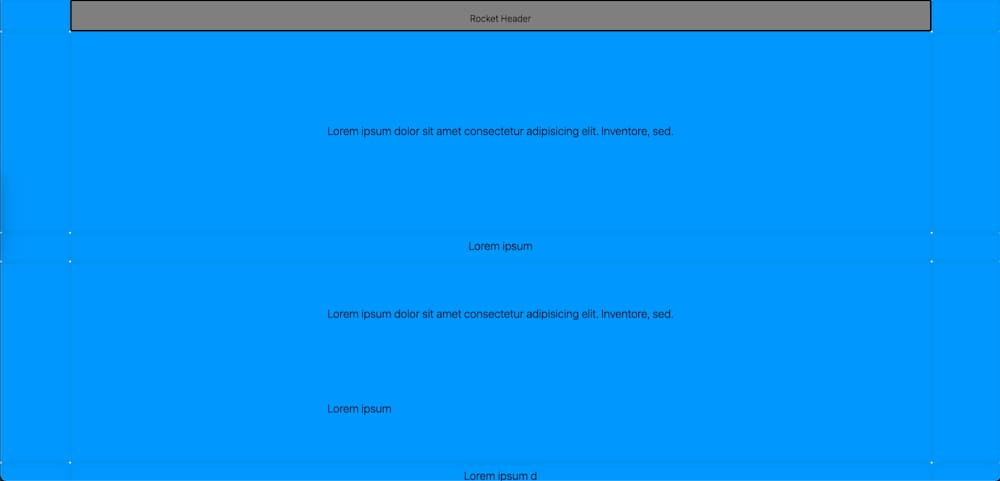
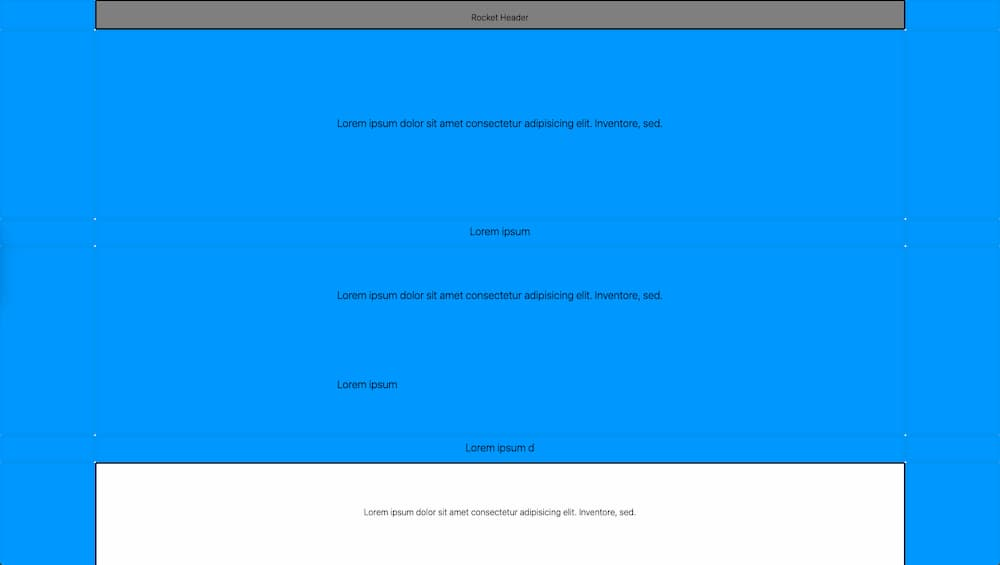
WIP

diff --git a/docs/rocket-themes/index.md b/docs/rocket-themes/index.md
@@ -1,12 +1,20 @@
 # Rocket Themes || 10
 
-_**This page is almost entirely TLDR to explain why I created these rocket themes**_ and what the themes are, and are not, about. [Thumbnails](/rocket-themes/all/thumbnails/) or even [Installation](/rocket-themes/all/installation/) might be more interesting for a first 10 second look.
+Go to [Thumbnails](/rocket-themes/all/thumbnails/) or even [Installation](/rocket-themes/all/installation/) if you want the quick visual or dev view.
+
+Else, _**this page is almost entirely TLDR to explain why I created these rocket themes**_ and what the themes are, and are not, about. 
 
 This page also covers some of the pitfalls.
 
 ## Executive Summary
 
-It might be possible that the biggest single factor to Wordpress's success - [currently 38% of the internet](https://kinsta.com/wordpress-market-share/) - is themes? [It's hard to know.](https://en.wikipedia.org/wiki/WordPress#History) 
+Rocket Themes is my answer to the problem given to me by my former boss and future clients: _**"We can't use rocket because the site we need doesn't look like that. Sorry."**_ By the time I try to explain that it can be customized, I've already lost them.
+
+So rocket themes let's me swap look and feel in 30 seconds. Now, I've got their attention. Seems silly, but _whatever it takes_.
+
+### But there's more
+
+It also might be possible that the biggest single factor to Wordpress's success - [currently 38% of the internet](https://kinsta.com/wordpress-market-share/) - is themes? [It's hard to know.](https://en.wikipedia.org/wiki/WordPress#History) 
 
 I created [these starter themes](/rocket-themes/all/thumbnails/) as one way to allow Rocket to grow into some of those same markets that would otherwise be unavailable to it.
 
@@ -14,17 +22,17 @@ I created [these starter themes](/rocket-themes/all/thumbnails/) as one way to a
 
 These starter themes give you very modest blocking for theming out your own [rocket](https://rocket.modern-web.dev/) site without getting tangled up in the rocket codebase. Proving out how theming might work is an important step in giving rocket a proper lift-off in the marketplace.
 
-These themes are not currently presented as finished products like Wordpress a theme would, but instead as a head start for devs already planning on creating their own site specific theme from HTML and CSS
+These themes are not _**currently**_ presented as finished products like Wordpress a theme would, but instead as a head start for devs already planning on creating their own site specific theme from HTML and CSS
 
 Pull requests are accepted, if you wish to improve any of these base themes. Or, publish your own! The whole idea is giving rocket that launch, however acheived.
 
 ## Branding and individuality
 
-Humans are crazy about individuality. Everything has to be "my" brand, my personality, nevermind the cost.
+Humans are crazy about individuality. Everything has to be "my" brand, my personality, nevermind other issues.
 
 Without themes, the rocket market could be temporarily trapped in a Henry-Ford-like _"any color, as long as it is black"_ flavor of marketing hell. That would be unfortunate, because rocket is a great tool.
 
-_**Without themes, rocket can still be individualized.**_ It's just a bit harder, and that little bit can sometimes deter an early adopter. That would be unfortunate.
+_**Without themes, rocket can still be individualized.**_ It's just a bit less obvious, and that little bit can sometimes deter an early adopter. Early adopters are our best friends :)
 
 ## Swappable
 
@@ -38,16 +46,10 @@ So it was important for someone to try this first exercise, even if the result i
 
 Again, contrasting these themes to the mature Wordpress market, each time you "implement" one of these themes, really what you are doing is copypasting in your own one-way fork. That's the bad news.
 
-The good news is that it's very customizeable! And with no additional negative consequences.
-
-## STARTER THEMES ONLY!
-
-These themes are vague beginnings only. Faster to start with something than nothing, you'll still have to do a lot of custom CSS and HTML as you would any good site.
-
-In later years, there will probably be themes that are super-polished, right out of the box. But that is not the intent of these particular themes.
+The good news is that, now you've kicked off the customization process on steroids and made it super obvious. That can be helpful.
 
 ## Dark side, too
 
-Forking off of someone else's fork is always a questionable affair. This is no different. 
+Forking off of someone else's fork is always a questionable affair. Themes are no different, in that respect.
 
 What happens when a theme is improved by it's author? Sorry, you already forked. Reconciling that new delta is now a manual affair.

diff --git a/docs/rocket-themes/all/3areas/index.md b/docs/rocket-themes/all/3areas/index.md
@@ -1,5 +1,7 @@
 # All >> 3 rocket areas || 20
 
+_TODO: this page assumes that the reader knows what basic functionality rocket brings to the table for each of the 3 rocket areas. That is probably a false assumption_
+
 You can think about how rocket fits in with the rest of your theme graphically, by color coding the CSS grid areas:
 
 <img class="bordered" src="/_merged_assets/_static/images/not-five38-grid-area-1000.jpg" alt="Example of the 3 areas" />
@@ -22,7 +24,7 @@ Put another way, your theme is entirely fresh and original. Nothing to do with r
 
 So the name of the game with all themes here is to be totally creative, _**excepting that portion of the work which is handled by the three areas,**_ which you are still creative with, but in a more constrained manner, as clarified below.
 
-## Rocket Header - class="header-grid-area"
+## Rocket Header: \<div class="header-grid-area"\>
 
 _Grey in the blocking view_
 
@@ -42,17 +44,19 @@ Rocket specifically furnishes the following links for the header:
 - How the rocket provided, and any other links are displayed and managed
 - Content for any other links
 
-## Rocket Sidebar - class="sidebar-grid-area"
+## Rocket Sidebar: \<div class="sidebar-grid-area"\>
 
 _Salmon in the blocking view_
 
-Ut sint eiusmod minim id consequat. Aliquip nisi ipsum ea officia ut commodo velit ullamco aliqua ipsum irure dolor nisi aliqua qui. Veniam exercitation laboris minim est aliqua quis enim esse sint esse elit. Duis amet sunt velit ea qui. Cillum aute nostrud eu. Enim officia culpa est esse est in quis labore. Qui dolor voluptate culpa et pariatur culpa voluptate amet eu culpa. Mollit fugiat reprehenderit sunt voluptate aute ullamco excepteur veniam eiusmod irure incididunt sunt id do.
+Benny Powers has shown how a [little customization to the sidebar](https://apolloelements.dev/blog/todo-app/#the-end-result) can go a long way to making it look nifty, but so far I've just taken the implementation straight from rocket.
 
-## Rocket Content - class="content-grid-area"
+## Rocket Content: \<div class="content-grid-area"\>
 
 _White in the blocking view_
 
-yada
+The rocket implementation itself shows how you can mix your own HTML/CSS content in with the markdown content section, in very creative ways.
+
+So far I've mostly tried to just blast through this and make sure at least the markdown copy is showing. But you can add HTML/CSS to that.
 
 ## Everything else
 
@@ -82,7 +86,7 @@ Grid area code is just weird enough to benefit from that extra segregation.
 
 ## The Nuclear Option
 
-_You break it, you buy it_
+_Copypasting in `_assets/style.css` and `_assets/layout.css` can be like "You break it, you buy it"_
 
 You, as a consumer, can always take the nuclear option, even if the theme author should never resort to this. [See section below.]
 

diff --git a/docs/rocket-themes/not-ibm/index.md b/docs/rocket-themes/not-ibm/index.md
@@ -1,10 +1,30 @@
 # not-ibm || 21
 
-## deserunt
+First, the _"ain't got time to read about it"_ version
 
-Voluptate consequat mollit labore aliquip quis. Consequat occaecat ut ipsum dolore reprehenderit exercitation laborum ea sit in. Ex velit elit in dolore esse nostrud deserunt et nulla eiusmod. Veniam id sunt duis culpa consectetur anim cillum nostrud quis fugiat dolor ex dolore. Pariatur laboris anim est consequat anim dolore. Aliqua deserunt aliquip sunt dolore sint velit proident minim. Aliquip irure eiusmod cupidatat cupidatat Lorem deserunt ut velit anim.
+Just run [this](/rocket-themes/all/installation/#one-cli-command-instead). 30 seconds and you're live on localhost
 
-## deserunt
+<img class="bordered" src="/_merged_assets/_static/images/try-not-ibm.jpg" alt="try not ibm project" />
+
+Or, you can browse a **deployed [demo of the theme here](https://walktownnet.web.app/)** if you prefer that over localhost.
+
+## Visually rich theme
+
+As you would expect from one of the largest corporations in the world, the IBM site is pretty rich with content.
+
+<img class="bordered" src="/_merged_assets/_static/images/not-ibm-screenshot.jpg" alt="not-ibm theme screenshot" />
+
+So it makes a nice place to start your boss or your client. "If rocket can easily do something like this..." You get the idea. A far cry from the other end of the scale from where default rocket sits.
+
+I still like the spartan rocket styling better, but imposing my taste on my client isn't what this is about, is it?
+
+yada yada
+
+## Strong usage of grid-areas
+
+For devs [who think it's still 2017](/rocket-themes/all/grid/#2018-new), this theme does a nice display of the power of CSS grid areas to keep the HTML/CSS design really simple. My 2c, anyway. Since grid-areas are a primary feature of these themes, that can be helpful.
+
+yada future todo responsive yada
 
 Ut deserunt in do enim incididunt voluptate in adipisicing sint eiusmod ipsum et minim dolor quis. deserunt labore eu laboris id dolore aliquip. Occaecat officia irure reprehenderit. Laborum laborum culpa do nulla sunt nisi reprehenderit sit. Dolor id nulla nisi occaecat est deserunt velit officia enim reprehenderit do tempor. Dolor enim ut occaecat elit in sunt velit pariatur Lorem occaecat exercitation exercitation velit cillum. Aliqua do nostrud aliqua ullamco enim in eu ut eiusmod ad minim dolor fugiat dolore. Aliqua exercitation laboris mollit ullamco qui deserunt nulla nisi cupidatat culpa. Aliqua occaecat laborum veniam proident adipisicing irure nostrud. Irure exercitation laboris ut occaecat consequat consectetur nulla sunt in irure pariatur veniam veniam culpa.
 

diff --git a/docs/rocket-themes/all/issues/index.md b/docs/rocket-themes/all/issues/index.md
@@ -1,0 +1,45 @@
+# All >> Fixes Waiting || 20
+
+## General Status Recap
+
+As of January 2021 the general status of themes is POC or **Proof of Concept**, only.
+
+This is not intended to waste your time, it is actually helpful to have even that much done and out of the way if one is faced with a boss or client who won't allow a rocket based project _**unless it can have it's own customized theme**_. Like my last boss, for example.
+
+So now I can say _**"Here, I proved you can have a swappable customized theme, now let's go to work!"**_
+
+But that's a small consolation for the guy who just wants to swap in a finished theme like he would be able to do in Wordpress, for example.
+
+Because the lion's share of the work is still left to do, and that's putting it mildly.
+
+## Feature sequence
+
+Sequence so far - at least after the first two POC themes - is to do a feature, then take it across the rest of the themes.
+
+## Grid Area Layout is helpful
+
+But it's just a start.
+
+You'll notice that for most themes, that's all there is! Harumph on that.
+
+From that point forward it's pretty quick to whip out a basic theme, at least to the level that `not-five38` theme is at, but even that hasn't beeen done for the last 15 themes.
+
+## Lots of basic CSS to do
+
+Note that fonts, and even basic margins on spacings are yet to be addressed even on the headers, and headers are more done than any other part.
+
+## Yikes! @media waiting?
+
+Responsive is super easy and fast to do with a grid layout - so why haven't ANY responsive been added yet?
+
+Good question. Should have been done, yesterday, preferably. One small feature at a time...
+
+## What about the footer?
+
+Footers are the purvey of each separate theme, and they haven't been touched, so I just start by copying in the footer.njk from the rocket codebase. So, there's that to fix, too.
+
+But really, folks. You will pretty nearly always want your footer to be custom to a site. That's more about the needs of the site than the needs of the theme consumer.
+
+## Infinite number of issues more
+
+Yup. Lotta stuff to address, too much to even begin to enumerate here.

diff --git a/docs/rocket-themes/all/thumbnails/index.md b/docs/rocket-themes/all/thumbnails/index.md
@@ -1,6 +1,6 @@
 # All >> Thumbnails || 10
 
-_copyright warning: Nothing on this page has been checked for legality. Changes may be required later, as a consequence._
+_Rocket themes is in Proof of Concept status. Shown below, themes in order of most to least complete_
 
 ## not-ibm theme
 
@@ -43,6 +43,10 @@ Try [not-five38 starter theme](/rocket-themes/not-five38/)
 From this [archetype](https://https://rocket.modern-web.dev//):
 
 <img class="bordered" src="/_merged_assets/_static/images/not-rocket-archetype.jpg" alt="rocket.modern-web.dev screenshot" />
+
+#### This CSS grid area layout:
+
+<img class="bordered" src="/_merged_assets/_static/images/not-rocket-grid-area.jpg" alt="not-rocket theme grid layout" />
 
 #### This modest starter theme:
 
@@ -261,3 +265,22 @@ From this [archetype](https://wired.com/):
 Try [how to complete a partially finished theme](/rocket-themes/incomplete/)
 
 <hr>
+
+## Internal pages
+
+All themes would naturally have both layouts:
+
+- a home page (such as all above home pages starting with prefix "not-")
+- internal pages, displayed with the `with-sidebar` layout in the rocket codebase
+
+When you select one of the `not-` prefixed themes above, each comes with the following `any-with-sidebar` theme for internal pages. 
+
+It is expected that you might wish to modify this theme later to suit your needs. It would look like this, out of the box:
+
+#### This appearance, currently:
+
+<img class="bordered" src="/_merged_assets/_static/images/any-sidebar-archetype.jpg" alt="internal page screenshot" />
+
+#### This CSS grid area layout:
+
+<img class="bordered" src="/_merged_assets/_static/images/any-sidebar-grid-area.jpg" alt="internal page theme grid layout" />

diff --git a/docs/rocket-themes/all/plagiarism/index.md b/docs/rocket-themes/all/plagiarism/index.md
@@ -10,6 +10,12 @@ So, use at your own discretion.
 
 Webster defines an "archetype" as "the original pattern or model of which all things of the same type are representations or copies" or "a perfect example"
 
+## Is look and feel copyrightable?
+
+That kind of question is way beyond my pay grade, but [this article](https://newmedialaw.proskauer.com/2016/02/05/website-html-is-copyrightable-even-if-look-and-feel-is-not/#:~:text=The%20Compendium%20states%20that%20while,dress%20under%20the%20Lanham%20Act.%5D) seems to say that there is nothing to worry about, all HTML/CSS is original to these themes, virtually none is copied from other sites.
+
+There may be exceptions with HTML/CSS snippets copied from tutorial sites or from stackoverflow, for example, but that would hardly make these themes unique or vulnerable, at least as far as copyright goes?
+
 ## Are these themes intended as a copy?
 
 These themes are starter themes, made to merely prove out the idea of theme-ablity for Rocket or other 11ty sites.

diff --git a/docs/rocket-themes/all/installation/index.md b/docs/rocket-themes/all/installation/index.md
@@ -18,7 +18,7 @@ _[There's an 30 second way to do it below](/rocket-themes/all/installation/#one-
 - run `npm i`
 - run `npm start`
 
-The part in bold is the only thing different from a normal rocket project.
+The part in bold above, is the only thing different from a normal rocket project.
 
 Next, let's look at doing all of this manually, in case you never installed rocket before. For all you rocket newbies.
 
